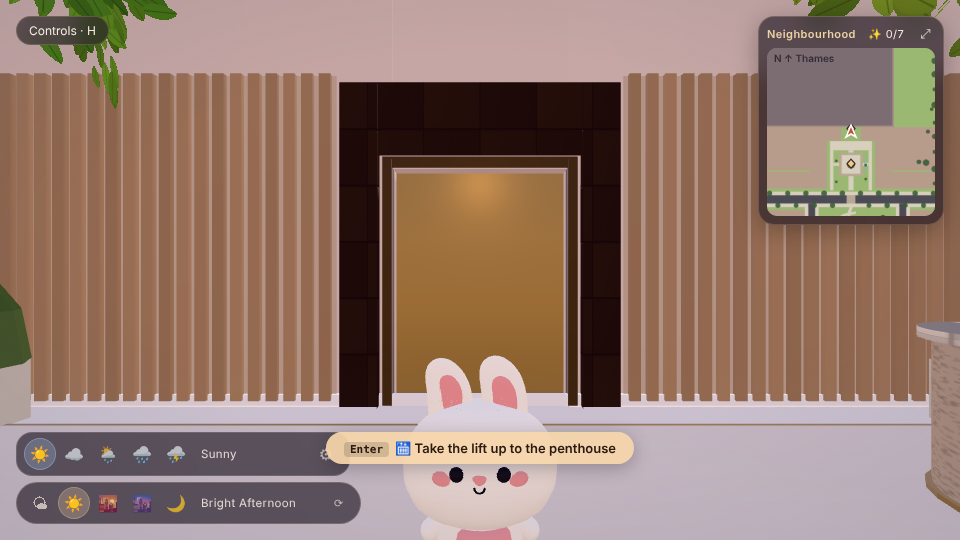
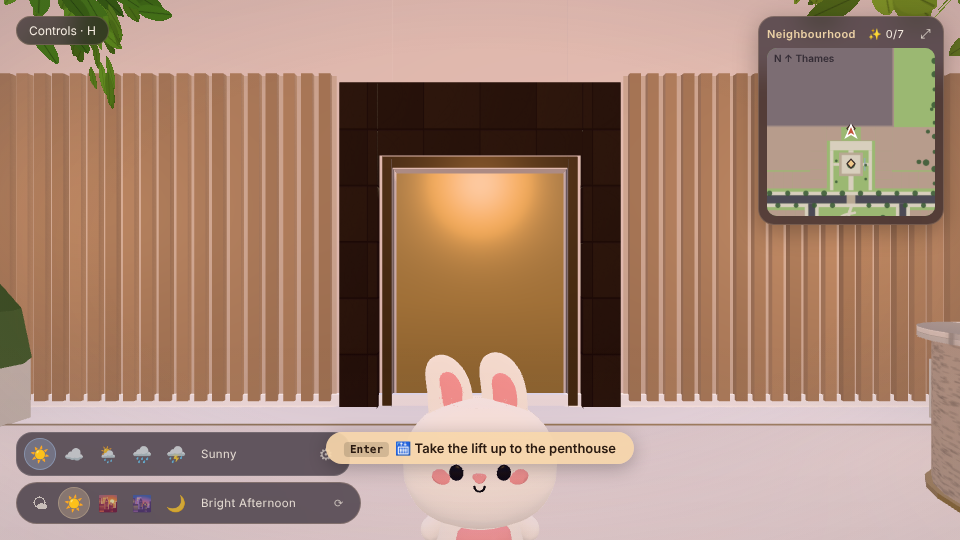
Ground lobby: always-on warm interior lights; honest checklist status snapshot
Claude-Session: https://claude.ai/code/session_017ZtboRbFUCo4FCo9fUW3pH

diff --git a/src/street/plan.js b/src/street/plan.js
@@ -196,7 +196,7 @@ export function buildStreet() {
     for (const sd of [-1, 1]) for (const [dx, dz, hh] of [[3.35, 8.4, 0.42], [3.75, 8.85, 0.3]]) { const x = sd * dx; ch.box(FP, x - 0.14, x + 0.14, 0.04, 0.04 + hh, dz - 0.14, dz + 0.14, col('#ffdca8'), 'glow', 'fulrb', 1, 1, 0); ch.box(FP, x - 0.17, x + 0.17, 0.0, 0.05, dz - 0.17, dz + 0.17, brass, 'metal', 'fulrbu', 1, 1, 0); ch.box(FP, x - 0.17, x + 0.17, 0.04 + hh, 0.08 + hh, dz - 0.17, dz + 0.17, brass, 'metal', 'fulrbu', 1, 1, 0); for (const [ax, az] of [[-1, -1], [1, -1], [-1, 1], [1, 1]]) ch.box(FP, x + ax * 0.16 - 0.012, x + ax * 0.16 + 0.012, 0.05, 0.04 + hh, dz + az * 0.16 - 0.012, dz + az * 0.16 + 0.012, brass, 'metal', 'fulrb', 1, 1, 0) }   // brass lanterns
     for (const sd of [-1, 1]) ch.prism(FP, sd * 3.0, 8.35, 0.26, 0.2, 0.04, 0.5, col('#c98f9f'), 'awning', 12)                                                                                   // hydrangea mound
     for (const s of [-1, 1]) { put('urn', BX + s * 2.7, 8.7, 0, 1.0, GY); put('ornamental', BX + s * 2.7, 8.7, 0, 0.42, GY + 0.9) }
-    lightsAt.push({ x: BX, y: GY + 3.4, z: 4 + 5.2, color: '#ffd5a8', intensity: 5, distance: 14 })
+    lightsAt.push({ x: BX, y: GY + 3.4, z: 4 + 5.2, color: '#ffd5a8', intensity: 14, distance: 14, always: true }); lightsAt.push({ x: BX + 4.2, y: GY + 2.2, z: 4 + 2.9, color: '#ffe0b8', intensity: 6, distance: 6, always: true }); lightsAt.push({ x: BX - 4.5, y: GY + 2.2, z: 4 + 2.9, color: '#ffe0b8', intensity: 5, distance: 6, always: true })
     halos.push([BX, GY + 3.2, 4 + 5.2], [BX, GY + 4.0, 14.6])
     // door to the courtyard: a clear 2.9 m opening (no leaves, so the arrival is never blocked)
     pois.lobby = { x: BX, z: 9 }
